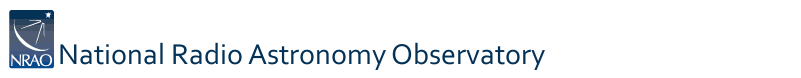
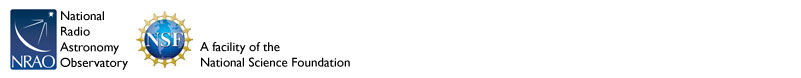
Added new top bar image, and touched up title/links of template.

Changed region(s): [[0.0, 0.1026, 0.6866, 0.8974]]

diff --git a/templates/project_name.html b/templates/project_name.html
@@ -81,13 +81,13 @@
             </a>
           </li>
           <li>
-            <a class="download-link" href="$project$.tar.gz">
+            <a class="download-link" href="/staged/$project$.tar.gz">
               <img src="/public/download.png" />
               $project$.tar.gz
             </a>
           </li>
           <li>
-            <a class="download-link" href="$project$.zip">
+            <a class="download-link" href="/staged/$project$.zip">
               <img src="/public/download.png" />
               $project$.zip
             </a>
